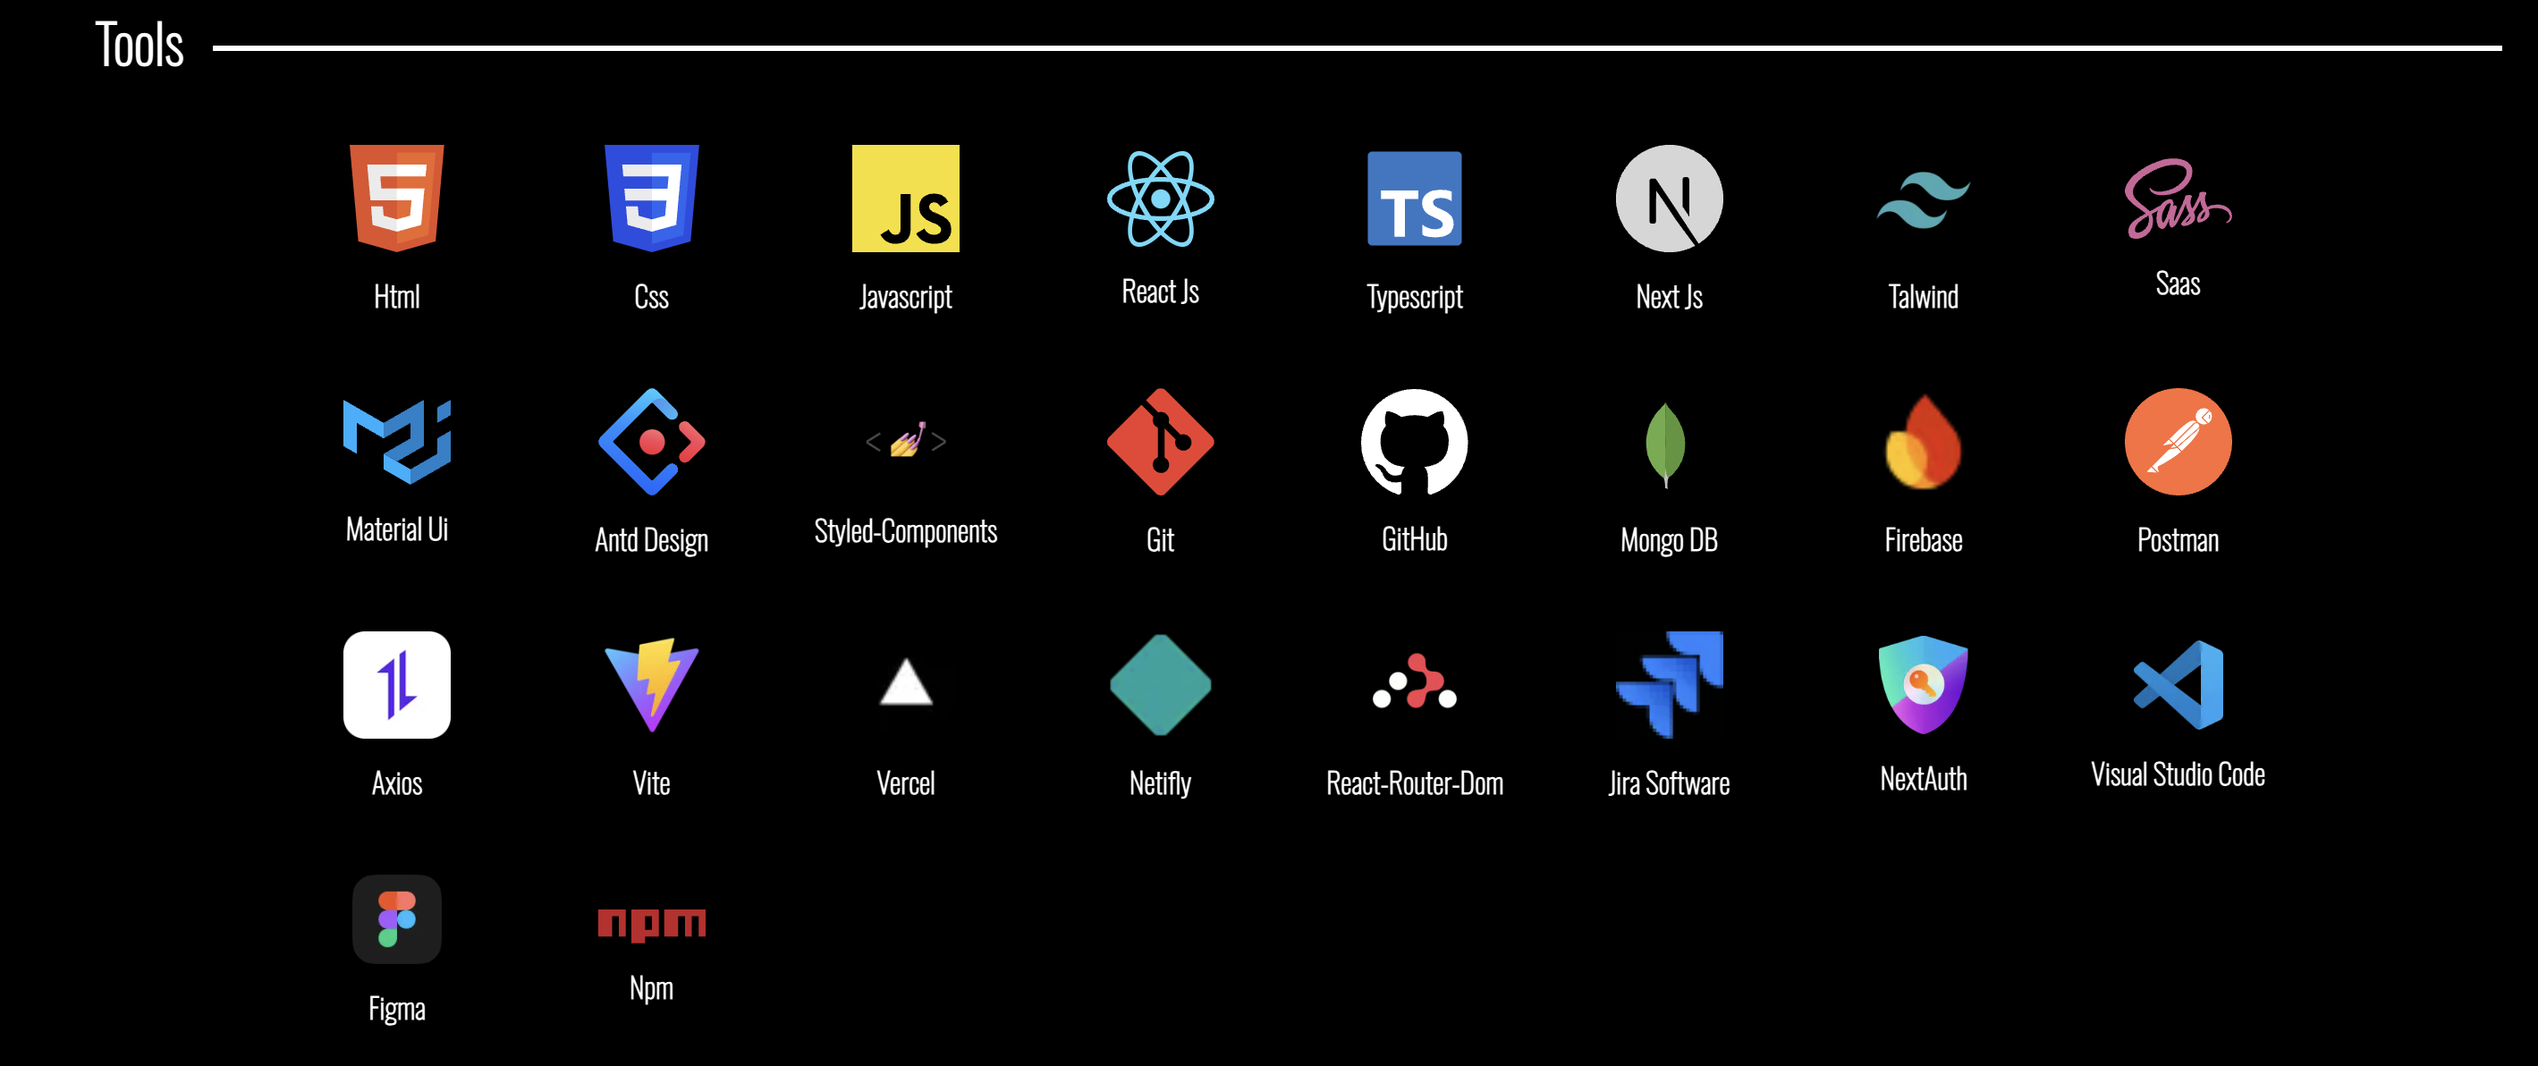
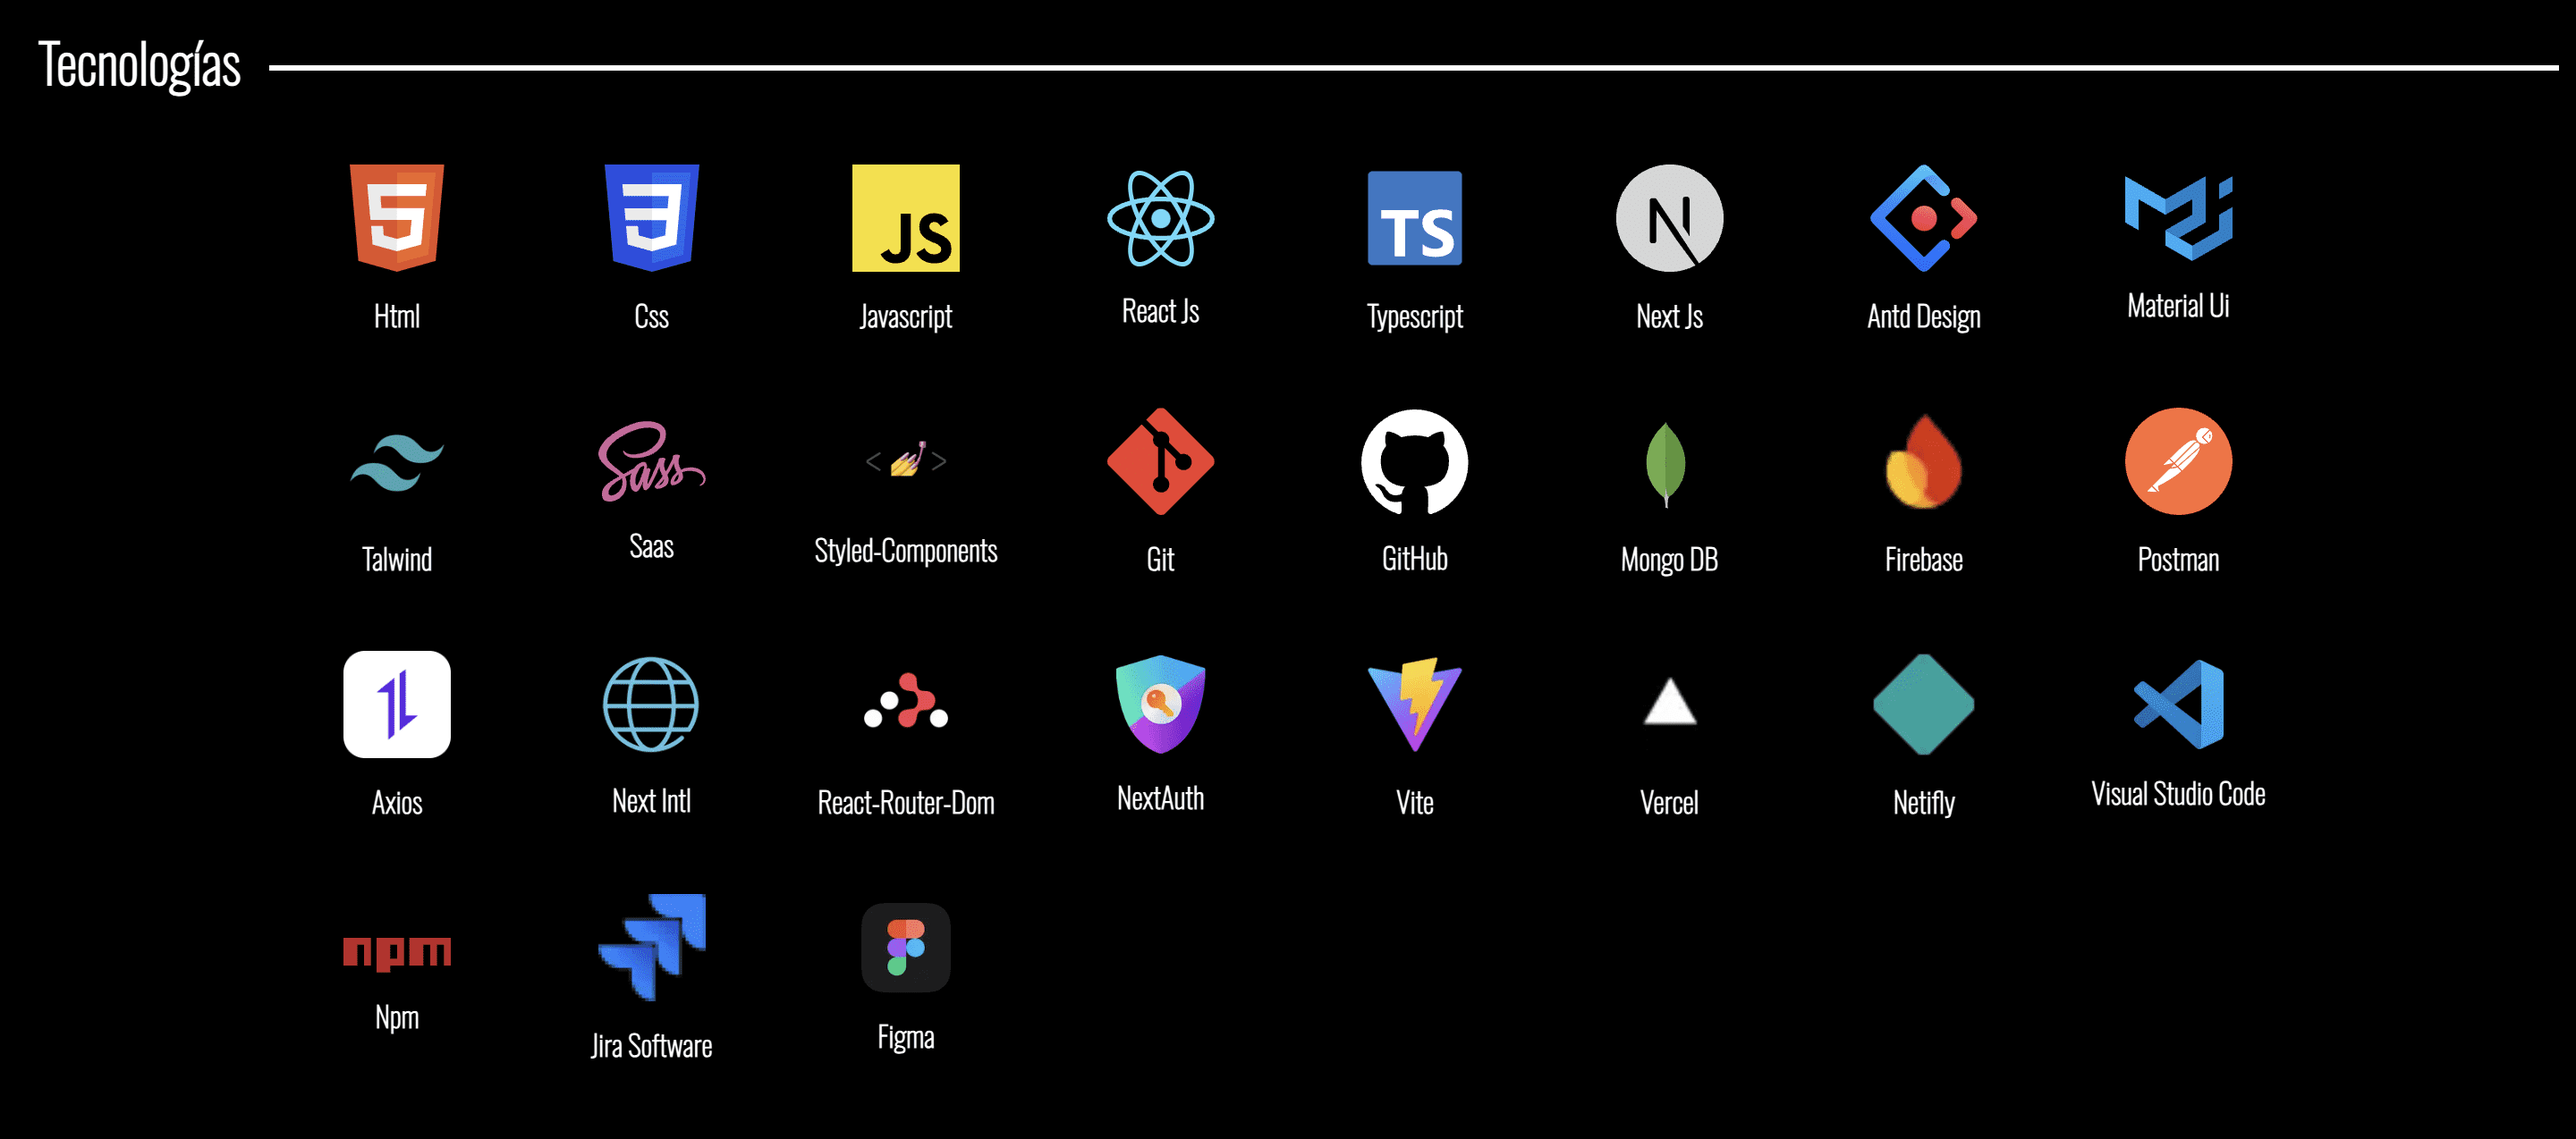
new tools

diff --git a/src/const/tec.js b/src/const/tec.js
@@ -1,7 +1,7 @@
 import {
     AntdDesign,
     Axios, CssSvg, Figma, Firebase, Git, GitHubSvg, HTML, Javascript, Jira, MaterialUi, MongoDB,
-    Netifly, NextAuth, NextJs, Npm, Postman, ReactJs, ReactRouterDom, Saas, StyledComponents, Talwind, Typescript, Vercel, Vite,
+    Netifly, NextAuth, NextIntl, NextJs, Npm, Postman, ReactJs, ReactRouterDom, Saas, StyledComponents, Talwind, Typescript, Vercel, Vite,
     VsCode
 } from "../svg/IconsSvg";
 
@@ -32,19 +32,19 @@ export const TECHNOLOGHIES = [
     },
     {
         id: 7,
-        text: <Talwind width={60} />
+        text: <AntdDesign width={60} />
     },
     {
         id: 8,
-        text: <Saas width={60} />
-    },
-    {
-        id: 9,
         text: <MaterialUi width={60} />
     },
     {
+        id: 9,
+        text: <Talwind width={60} />
+    },
+    {
         id: 10,
-        text: <AntdDesign width={60} />
+        text: <Saas width={60} />
     },
     {
         id: 11,
@@ -76,38 +76,42 @@ export const TECHNOLOGHIES = [
     },
     {
         id: 18,
-        text: <Vite width={60} />
+        text: <NextIntl width={60} />
     },
     {
-        id: 19,
-        text: <Vercel width={60} />
-    },
-    {
-        id: 20,
-        text: <Netifly width={60} />
-    },
-    {
-        id: 21,
+        id: 18,
         text: <ReactRouterDom width={60} />
     },
     {
-        id: 22,
-        text: <Jira width={60} />
-    },
-    {
-        id: 23,
+        id: 19,
         text: <NextAuth width={50} />
     },
     {
-        id: 24,
+        id: 20,
+        text: <Vite width={60} />
+    },
+    {
+        id: 21,
+        text: <Vercel width={60} />
+    },
+    {
+        id: 22,
+        text: <Netifly width={60} />
+    },
+    {
+        id: 23,
         text: <VsCode width={50} />
     },
     {
+        id: 24,
+        text: <Npm width={60} />
+    },
+    {
         id: 25,
-        text: <Figma width={50} />
+        text: <Jira width={60} />
     },
     {
         id: 26,
-        text: <Npm width={60} />
-    }
+        text: <Figma width={50} />
+    },
 ]

diff --git a/src/svg/IconsSvg.jsx b/src/svg/IconsSvg.jsx
@@ -25,6 +25,7 @@ import AntdDesignimg from "../../public/svg/ant-design.svg";
 import VisualStudioCodeImg from "../../public/svg/vscode.webp";
 import FigmaImg from "../../public/svg/figma.webp";
 import NpmImg from "../../public/svg/npm.svg";
+import NextIntlImg from "../../public/svg/next-intl.webp";
 import UserImg from "../../public/svg/user.png";
 
 export const RedirectHome = () => {
@@ -457,6 +458,15 @@ export const Npm = ({ width }) => {
     <>
       <Image src={NpmImg} width={width} alt="NPM" className="mt-2" />
       <h1 className="title-tools">Npm</h1>
+    </>
+  );
+};
+
+export const NextIntl = ({ width }) => {
+  return (
+    <>
+      <Image src={NextIntlImg} width={width} alt="Next Intl" />
+      <h1 className="title-tools">Next Intl</h1>
     </>
   );
 };
